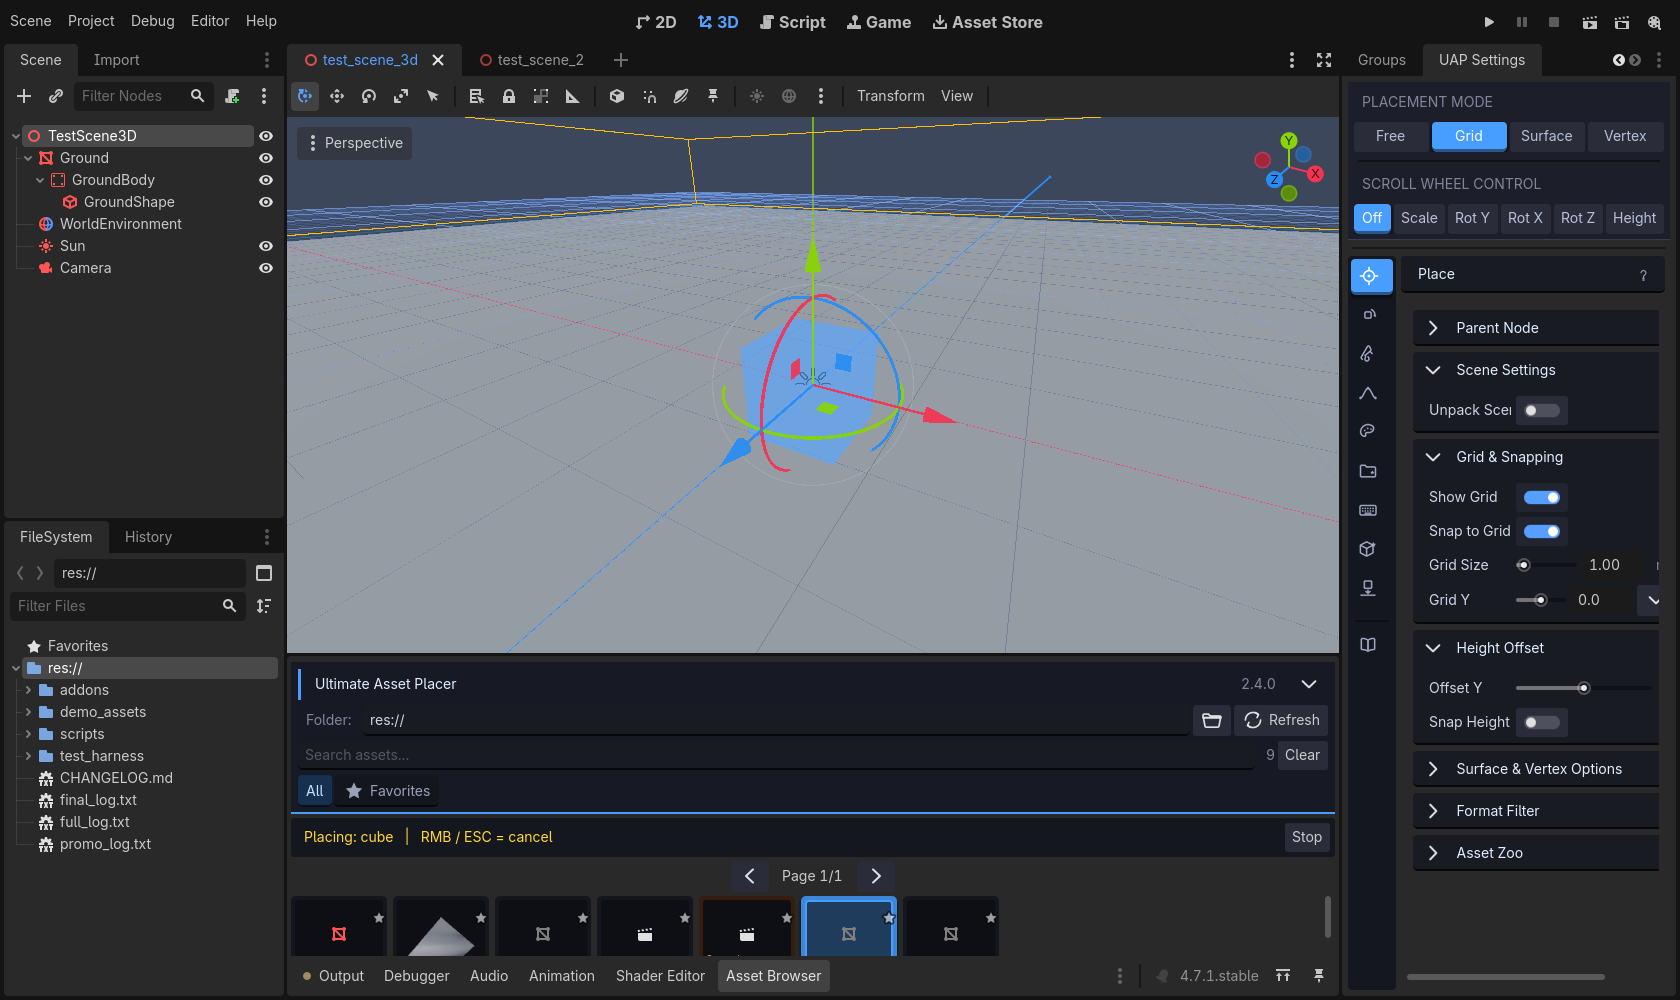
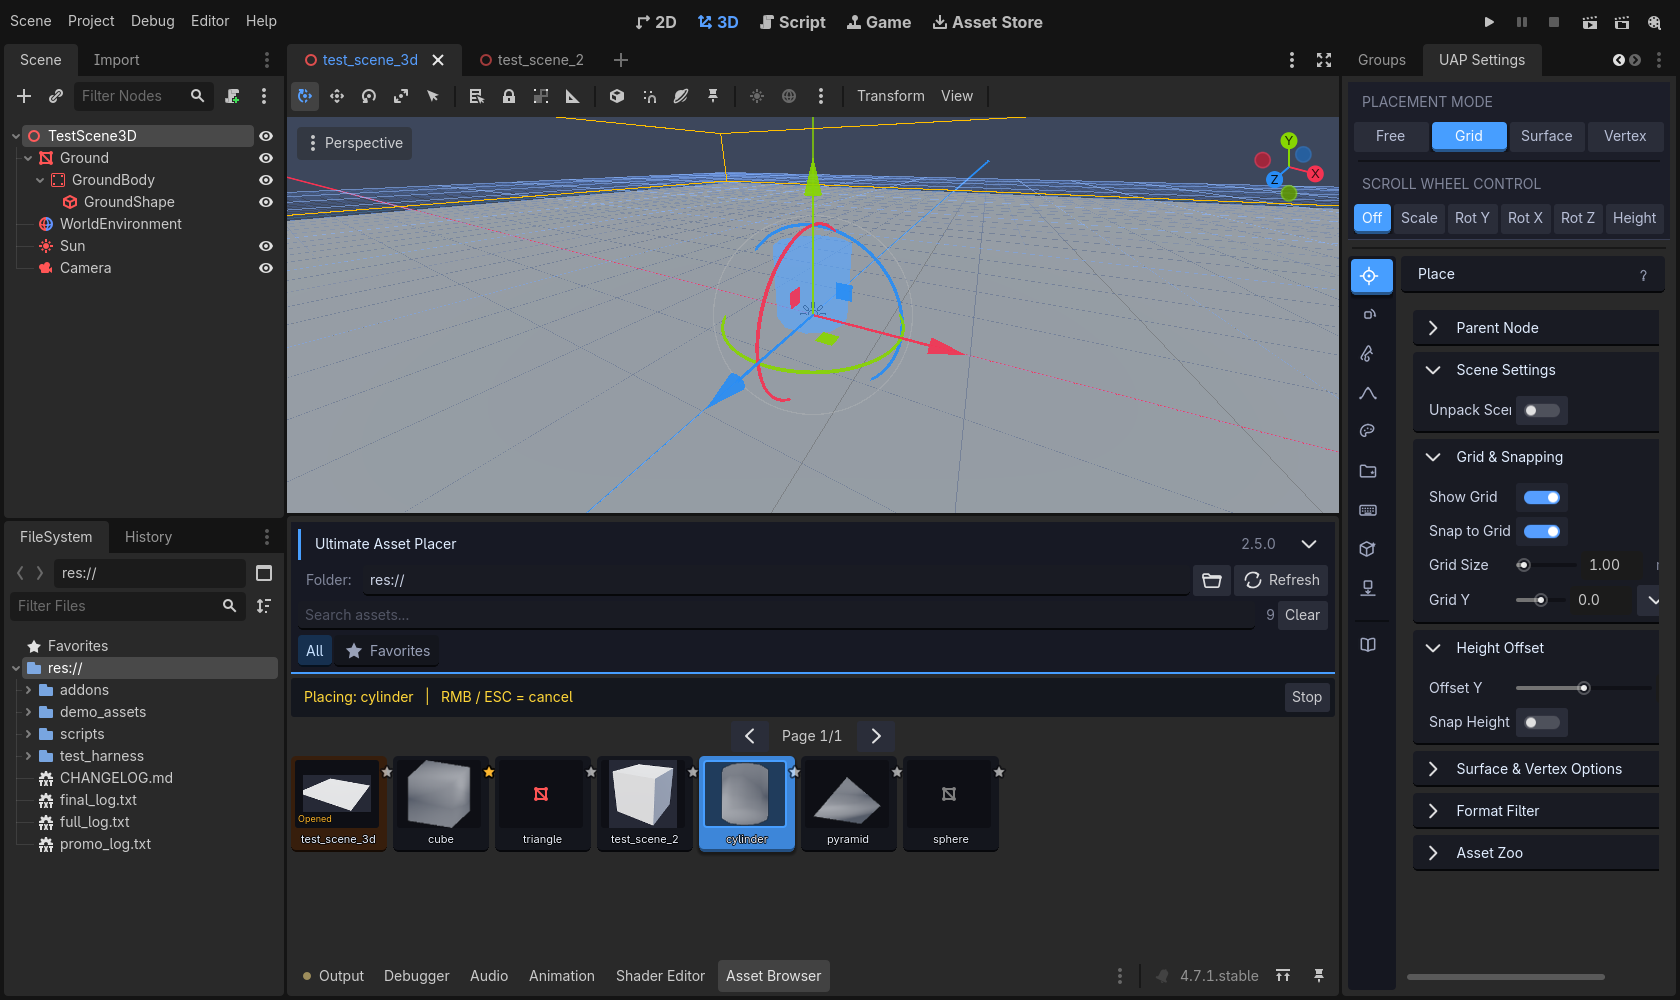
Ultimate Asset Placer v2.5.0 — favorite star root-cause fix (TextureButton corner badge), thumbnail clip hardening, docs opens at Welcome, long descriptions removed, raised-blue Start Physics, silent theme pass
- Star: icon-only Button inherited the editor theme's 32x28 Button minimum
  size; Godot grew the 16px rect in the END direction, drew the icon
  left-aligned inside it and the neighbouring card covered the overhang.
  Now a TextureButton (ignore_texture_size) whose rect equals its offsets
  pixel-exactly: centered ON the card's top-right edge (mockup design),
  well stops one pad short of the right edge so the star never overlaps
  the thumbnail; gold/dim-white self_modulate states + hover brighten;
  icon refresh uses the same size formula as the build pass.
- Thumbnails: clip_contents on well + TextureRect; native-size stretch
  only for textures small on BOTH axes.
- Docs: rail button always opens Welcome (chapter 0) even after per-tab
  'i' deep links; _open_docs_window default -1 -> 0.
- Removed long tab descriptions (Spline, Physics, Drag&Drop, Auto Shape).
- Start Physics: raised blue 3D face (was low-contrast idle dress).
- Removed 'Theme pass dressed ...' debug prints (silent by default).
- Harness: 40 awaited (serialized) steps, all green, 0 script errors.

Changed region(s): [[0.1548, 0.496, 0.8048, 0.961], [0.1548, 0.155, 0.8048, 0.465], [0.7738, 0.899, 0.8048, 0.93]]

diff --git a/CHANGELOG.md b/CHANGELOG.md
@@ -1,5 +1,81 @@
 # Ultimate Asset Placer — Changelog
 
+## v2.5.0 — the favorite star fixed for real + quieter, tighter panel
+
+Fifth polish round. The recurring "star icon position" complaint was traced to
+a real engine-level root cause (not the offsets), the docs window opens on
+Welcome again, and the panel got quieter and tighter. Verified against a real
+Godot 4.7.1 editor with a 40-step automated harness (assertions + rendered
+screenshots inspected by hand), zero script errors and zero audit fails.
+
+### The favorite star — root cause found and fixed
+- An icon-only `Button` inherits the editor theme's Button **minimum size**
+  (measured 32×28 px at editor scale 1.0 in the 4.7.1 editor), even with
+  `flat = true` and `StyleBoxEmpty` overrides on every state. Godot grows the
+  control to its minimum size in the END direction, so the intended 16 px
+  star rect silently became a 32×28 rect: the icon drew left-aligned inside
+  the oversized box (several px off the corner) and the neighbouring card
+  drew over the overhang. This is why the star "never got fixed" in 2.2–2.4.
+- The star is now a **`TextureButton` with `ignore_texture_size`** — no text,
+  no font, no styleboxes: its rect equals its offsets **pixel-exactly on
+  every editor theme** (harness-probed: rect 16×16 at the intended corner).
+- **New corner-badge design** from the user's mockup: the star is centered ON
+  the card's top-right edge (half inside the card, half outside over the
+  panel), `8·es` px below the top edge.
+- The thumbnail well stops one padding short of the card's right edge
+  (asymmetric inset, exactly like the mockup), reserving the star zone — the
+  star can never overlap the thumbnail image.
+- Favorited stars tint **gold**, unfavorited stay dim white and brighten on
+  hover (self_modulate; TextureButton has no per-state theme icon colors).
+- The icon-refresh pass now uses the same size formula as the build pass
+  (the old one drifted: build 16 px vs refresh 18 px).
+
+### Thumbnails can never spill onto the card again
+- `clip_contents` enabled on both the thumbnail well and its TextureRect.
+- The native-size stretch mode (meant for 16–32 px editor fallback icons) now
+  requires the texture to be small on BOTH axes — a wide texture under the
+  height limit would previously have been drawn at native width across the
+  card.
+
+### Docs window opens at Welcome again
+- The rail Docs button used `chapter = -1`, which kept the last per-tab "i"
+  chapter selected — opening Docs after using any "i" button showed that tab's
+  chapter instead of Welcome. The rail button now always opens **"Welcome &
+  Quick Start"** (chapter 0); per-tab "i" buttons still deep-link.
+- `_open_docs_window()`'s default parameter changed from -1 to 0.
+
+### Long tab descriptions removed
+The user now has the per-tab "(i)" help button and the Docs window, so the
+redundant paragraph blocks are gone:
+- Spline tab: "Advanced Spline System: Draw a curve, then add meshes to it…" block.
+- Physics tab: "Drop already-placed objects with a bit of physics…" block.
+- Groups tab: the multi-line Drag & Drop hint section.
+- Physics → Auto Collision: the long Auto Shape explanation paragraph.
+Short contextual one-liners remain.
+
+### Start Physics reads as a button
+The Physics tab's primary action was created bare and received the global
+walker's low-contrast idle dress — nearly the panel's color, so it did not
+read as a button at all. It now wears a **raised blue 3D face** (solid fill,
+darker bottom bevel, drop shadow — the same tactile language as the active
+mode buttons), clearly visible against the panel, still on-theme, not white.
+
+### Silent by default
+- The `[Ultimate Asset Placer] Theme pass dressed N buttons…` debug prints
+  (a 2.3 leftover) are removed. The counters are kept internally for the test
+  harness; the plugin only prints its ready line.
+
+### Test harness
+- 40-step harness: all previous regressions (inset resting cards, grid
+  spacing, name outlines, "Opened" chip, click-through thumbnail, selected /
+  multi styleboxes, ctx-menu Open Scene / View Model, view/open actions,
+  header collapse, per-tab help chapters) plus new checks: star straddle
+  geometry (half-in == half-out, no well intersection, sticks past the card
+  edge, rect == offsets), clip flags + star-zone reservation, docs Welcome
+  behavior (including the after-"i"-use regression), removed descriptions,
+  Start Physics stylebox, gold-star modulate. Step callbacks are now awaited
+  (serialised) so async scene switches cannot race each other's checks.
+
 ## v2.4.0 — carved asset cards + Open Scene / View Model
 
 A fourth polish round on the asset browser plus a new context-menu action.

diff --git a/README.md b/README.md
@@ -2,7 +2,7 @@
 
 **Professional 3D asset placement tool for Godot 4.7+** — place, paint, scatter, spline, and physics-drop your assets with a fast, tactile editor UI. Optimised for thousands of assets.
 
-![Godot 4.7](https://img.shields.io/badge/Godot-4.7%2B-478cbf) ![Version](https://img.shields.io/badge/version-2.4.0-blue) ![License](https://img.shields.io/badge/license-MIT-green)
+![Godot 4.7](https://img.shields.io/badge/Godot-4.7%2B-478cbf) ![Version](https://img.shields.io/badge/version-2.5.0-blue) ![License](https://img.shields.io/badge/license-MIT-green)
 
 ![Ultimate Asset Placer in the Godot editor](screenshots/editor_overview.png)
 
@@ -17,6 +17,56 @@
 - **Material override & auto collision** — Replace/Next-Pass materials, Static/Rigid/Character/Area bodies with five shape types.
 - **Physics tab** — lift, drop, tumble and settle existing scene objects entirely inside the editor.
 - **Asset Zoo** — lays out your whole library in a 3D grid for inspection.
+
+## What's new in v2.5.0 — the star, fixed for real; quieter, tighter panel
+
+### The favorite star — root cause found and fixed
+Every previous round moved the star and it still looked wrong. The actual
+root cause was never the offsets: an icon-only `Button` inherits the editor
+theme's Button **minimum size (32×28 px)**, so Godot silently grew the star's
+16 px rect, drew the icon inside that oversized box and slid half of it under
+the neighbouring card. The star is now a `TextureButton` whose rect is
+**pixel-exact on every editor theme**.
+
+- **New corner-badge design** (taken literally from the mockup): the star is
+  centered **on the card's top-right edge** — half inside the card, half
+  outside over the panel — a few pixels below the top edge.
+- The thumbnail well stops one padding short of the right edge, so the star
+  **never overlaps the thumbnail image**.
+- Favorited stars are **gold**; unfavorited stars are dim white and brighten
+  on hover.
+
+![Asset cards with corner-badge stars](screenshots/asset_cards.png)
+
+### Thumbnails can never spill onto cards again
+Thumbnail drawing is now **clipped to its well**, and the native-size stretch
+mode is only used for genuinely tiny fallback icons — a texture can no longer
+be drawn at native size across the card face.
+
+### Docs always opens at the Welcome chapter
+The **Docs button on the rail** now always opens **“Welcome & Quick Start”** —
+previously it re-opened whatever chapter the last per-tab “(i)” button had
+shown. The per-tab **(i)** buttons still deep-link straight to their tab's
+chapter.
+
+### Long tab descriptions removed
+The paragraph blocks at the top of the Spline and Physics tabs (and the
+drag-and-drop / auto-shape hints) are gone — every tab has the **(i)** help
+button and the Docs window now, so the controls moved back up where you can
+reach them.
+
+### Start Physics finally reads as a button
+The Physics tab's primary action wore the same low-contrast dark dress as the
+panel around it. It is now a **raised blue 3D button** — the same tactile
+treatment as the active mode buttons: clearly a button, still on-theme, never
+white.
+
+![Physics tab with raised Start button](screenshots/physics_tab.png)
+
+### Silent by default
+The `[Ultimate Asset Placer] Theme pass dressed …` debug lines that were
+printed to the Output dock on every panel build are gone. The plugin now only
+announces that it is ready.
 
 ## What's new in v2.4.0 — carved asset cards, Open Scene / View Model
 
@@ -123,7 +173,7 @@ See [CHANGELOG.md](CHANGELOG.md) for the complete, detailed change history.
 ## Installation
 
 ### Option A — from a release zip
-1. Download `ultimate_asset_placer_v2.4.0.zip` from the [Releases](../../releases) page.
+1. Download `ultimate_asset_placer_v2.5.0.zip` from the [Releases](../../releases) page.
 2. Extract it into your project folder so you end up with `res://addons/ultimate_placer/`.
 3. Open **Project → Project Settings → Plugins** and enable **Ultimate Asset Placer**.
 4. The **Asset Browser** appears as a bottom panel and the **settings panel** docks to the right.
